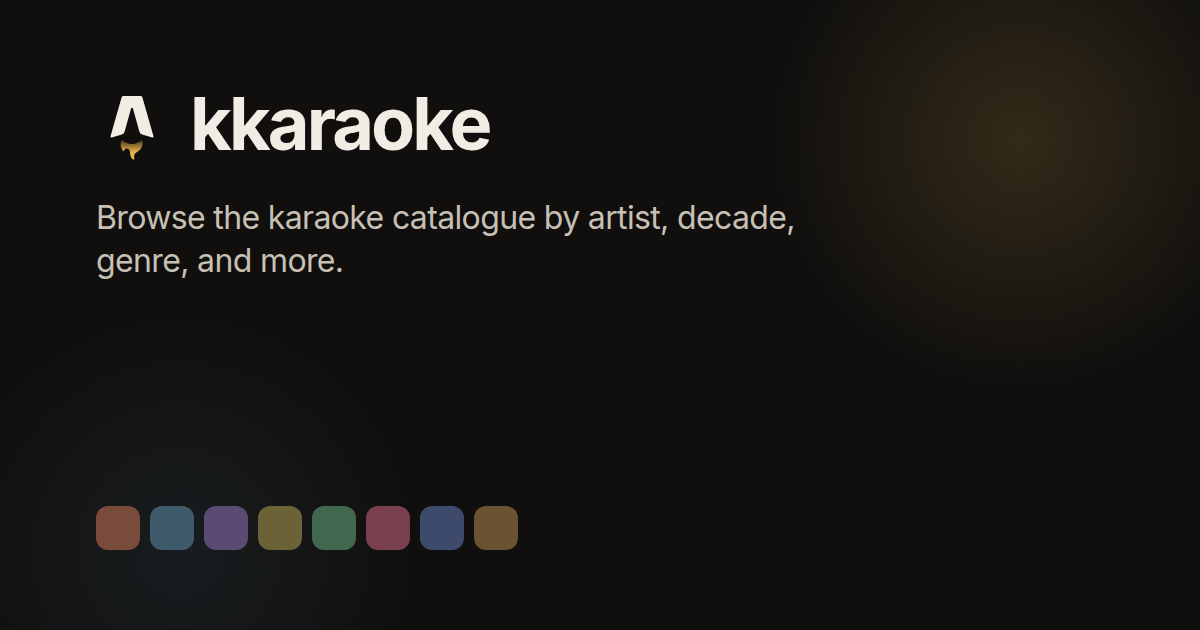
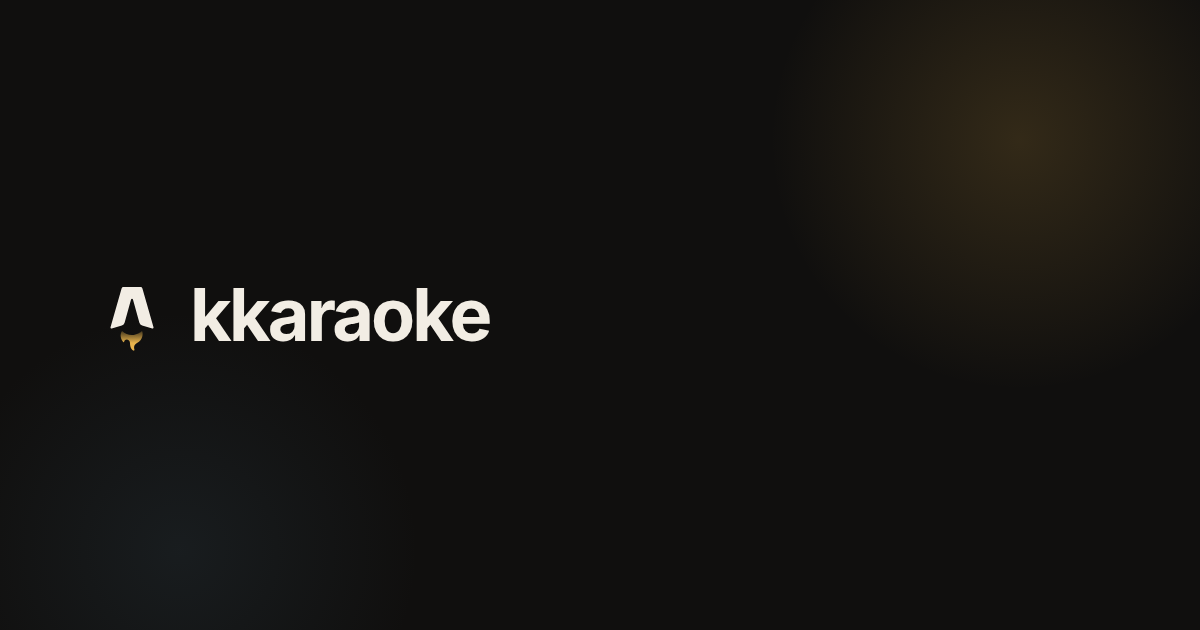
Use collection stills on share cards and drop the tile-tint row.
The default preview is just the mark and name. Genre, decade, and
category links use that collection's photo. Tile tints stay as a
UI fallback for pages without art.

diff --git a/src/lib/catalogue.ts b/src/lib/catalogue.ts
@@ -210,6 +210,13 @@ export function artFor(kind: CollectionKind, key: string): string | undefined {
     return COLLECTION_ART[`${kind}:${key}`]?.src;
 }
 
+/** JPEG share card cropped from a collection still (`/collections/rock.webp` → `/og/rock.jpg`). */
+export function collectionOgImage(art: string | undefined): string | undefined {
+    if (art === undefined || !art.endsWith(".webp")) return undefined;
+    const file = art.slice(art.lastIndexOf("/") + 1).replace(/\.webp$/, ".jpg");
+    return `/og/${file}`;
+}
+
 function collectionLook(kind: CollectionKind, key: string) {
     const entry = COLLECTION_ART[`${kind}:${key}`];
     const tint = tintFor(kind, key);
